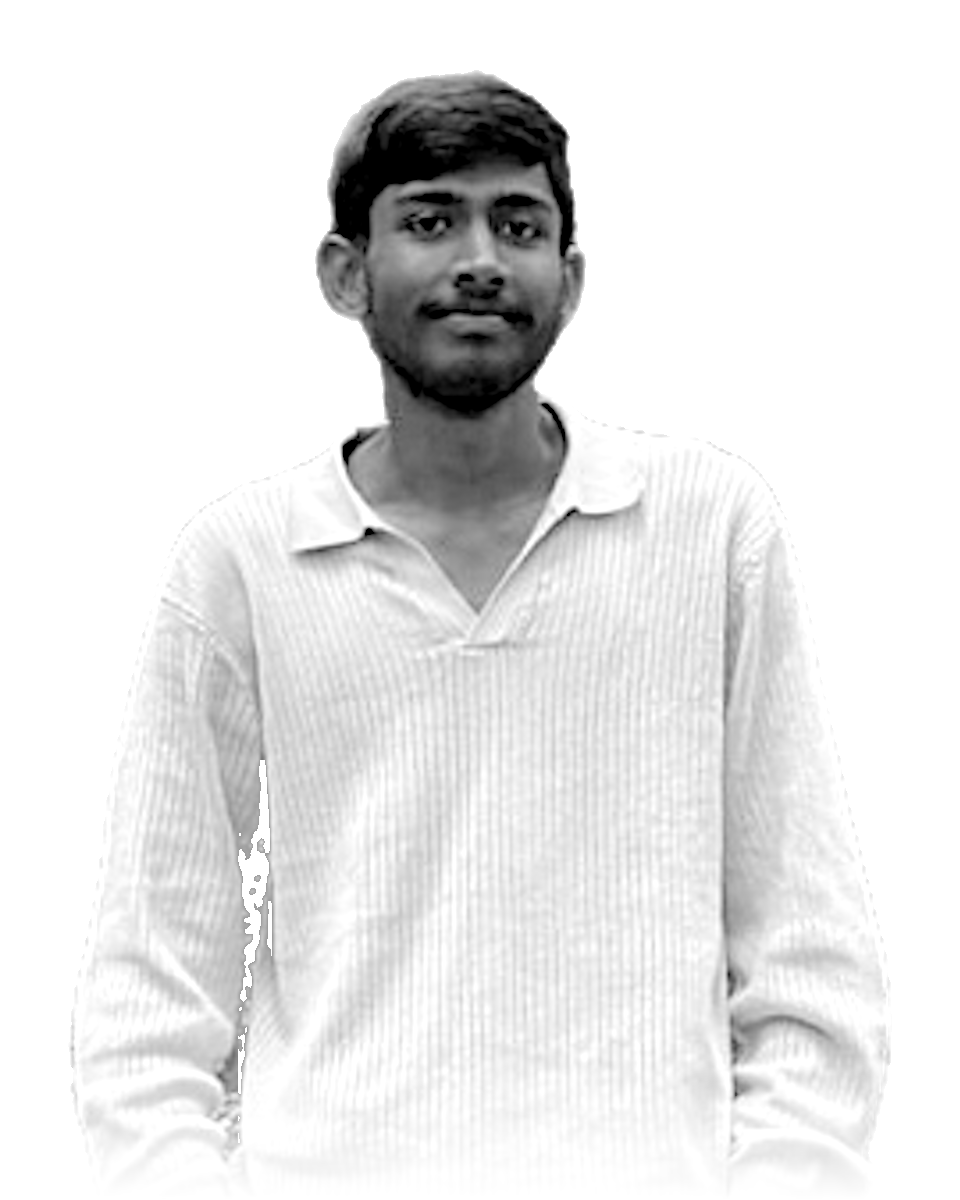
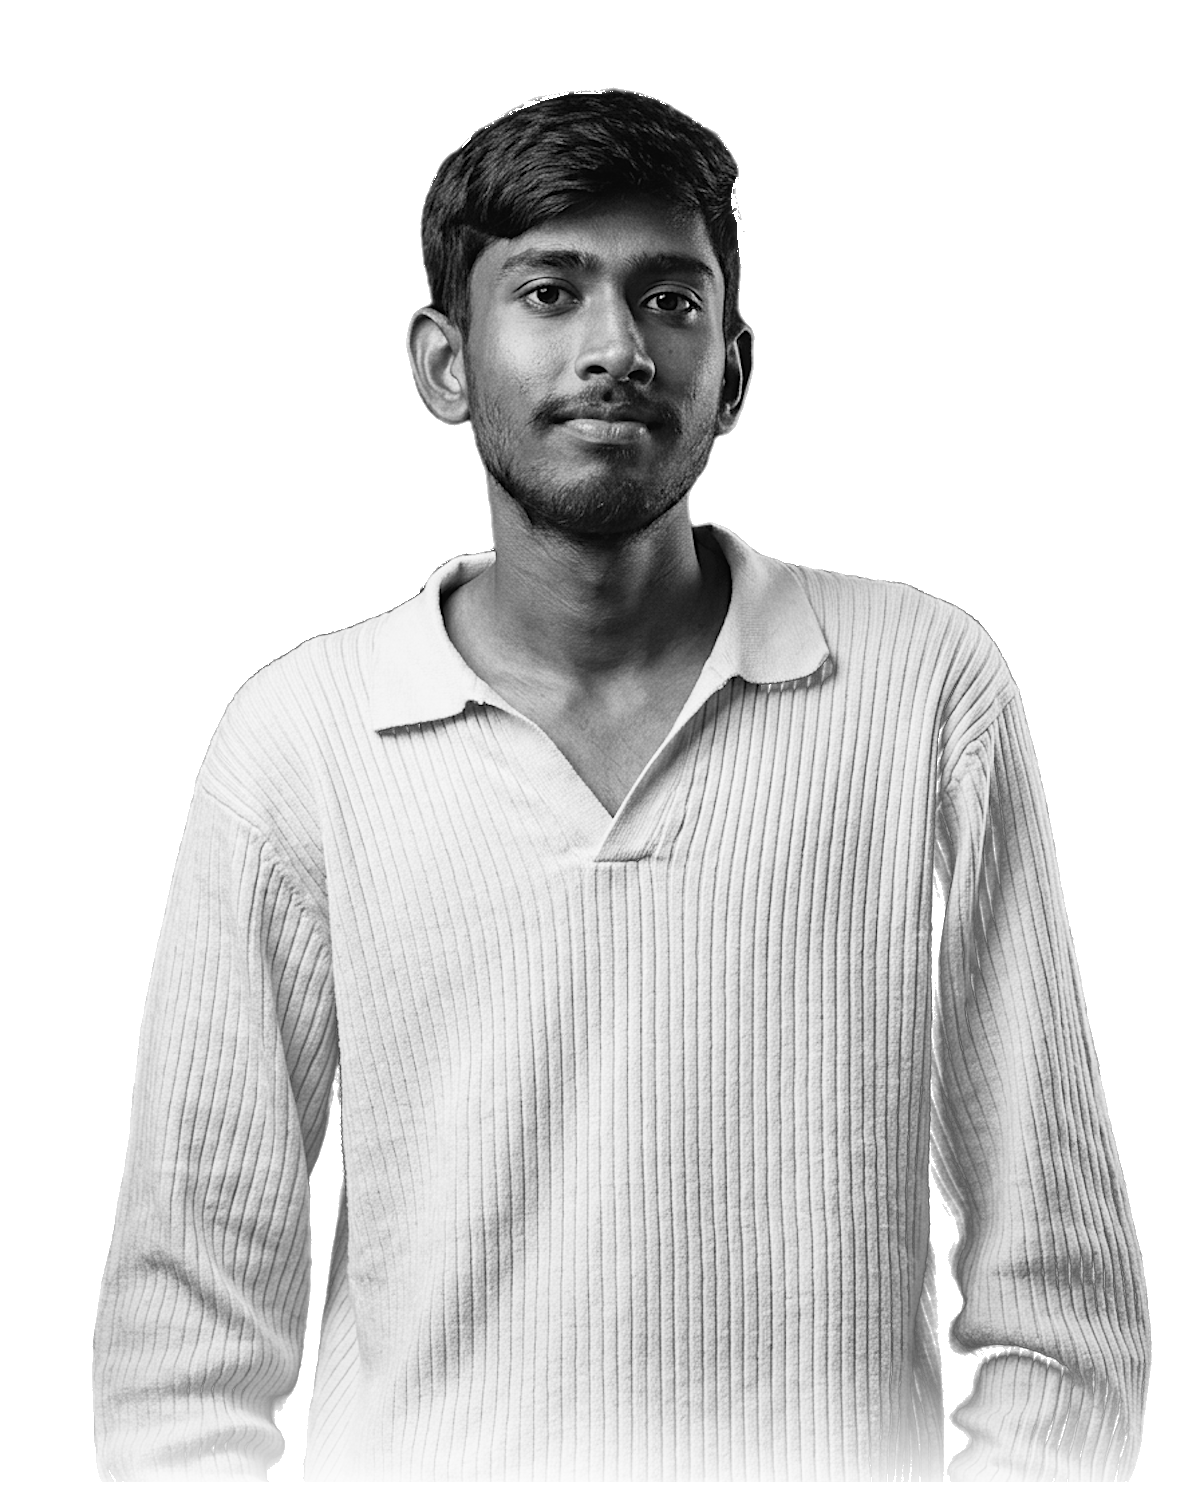
refactor: update profile name and redesign hero section with new portrait assets

Changed region(s): [[0.0625, 0.0617, 0.9688, 0.9867], [0.3438, 0.555, 0.375, 0.5858], [0.3125, 0.5858, 0.3438, 0.6167]]

diff --git a/src/components/sections/Hero.tsx b/src/components/sections/Hero.tsx
@@ -43,9 +43,9 @@ function Portrait({ src }: { src?: string }) {
  * strip across the bottom.
  */
 export function Hero({ profile, config }: { profile: Profile; config: Config }) {
-  const [first, ...rest] = profile.name.split(' ');
-  const last = rest.join(' ');
-  const word = 'type-display text-[length:clamp(3.25rem,11vw,5.75rem)] lg:text-[length:clamp(4.25rem,6.6vw,7.25rem)]';
+  const fullName = profile.name.trim().replace(/\s+/g, ' ');
+  const word =
+    'type-display whitespace-nowrap text-[length:clamp(1.65rem,4.6vw,3.25rem)] lg:text-[length:clamp(2.2rem,3.25vw,3.75rem)] leading-none [&_.w]:mr-[0.14em] [&_.w:last-child]:mr-0 [&_.w]:pb-[0.06em]';
 
   return (
     <section
@@ -63,13 +63,9 @@ export function Hero({ profile, config }: { profile: Profile; config: Config }) 
 
       <div className="container-kit my-auto grid gap-10 pb-8 pt-[calc(var(--nav-height)+var(--space-6))] sm:gap-12 sm:pb-10">
         <div className="grid items-center gap-10 lg:grid-cols-12 lg:gap-8">
-          <div className="grid content-start gap-6 lg:col-span-7 sm:gap-8">
-            <h1 id="hero-title" className="grid gap-4 sm:gap-5">
-              <span className="flex flex-wrap items-baseline gap-x-[0.18em]">
-                <MetalTitle as="span" text={first} entrance="load" className={`${word} [--rise-delay:80ms]`} />
-                <span className="sr-only"> </span>
-                {last && <MetalTitle as="span" text={last} entrance="load" className={`${word} [--rise-delay:160ms]`} />}
-              </span>
+          <div className="grid content-start gap-5 lg:col-span-7 sm:gap-6">
+            <h1 id="hero-title" className="grid gap-3 sm:gap-4">
+              <MetalTitle as="span" text={fullName} entrance="load" className={`${word} [--rise-delay:80ms]`} />
               <span className="sr-only">, </span>
               <span className="rise type-h3 font-medium text-ink [--rise-delay:240ms]">Full-stack &amp; AI engineer</span>
             </h1>

diff --git a/src/content/profile.ts b/src/content/profile.ts
@@ -1,9 +1,9 @@
 import { Profile } from './schema.ts';
 
 export const profile = Profile.parse({
-  name: 'Kushwant  KR',
+  name: 'Kushwant Kumar Reddy',
   role: 'Software Engineer · Full-Stack & AI',
-  nameLine: 'Kushwant KR, software engineer for full-stack and AI',
+  nameLine: 'Kushwant Kumar Reddy, software engineer for full-stack and AI',
   headline: 'I build web products that think and move',
   subheadline:
     'Associate Software Engineer at Knowvation Learnings and a freelance developer in Hyderabad. Full-stack apps with a soft spot for AI and 3D.',
